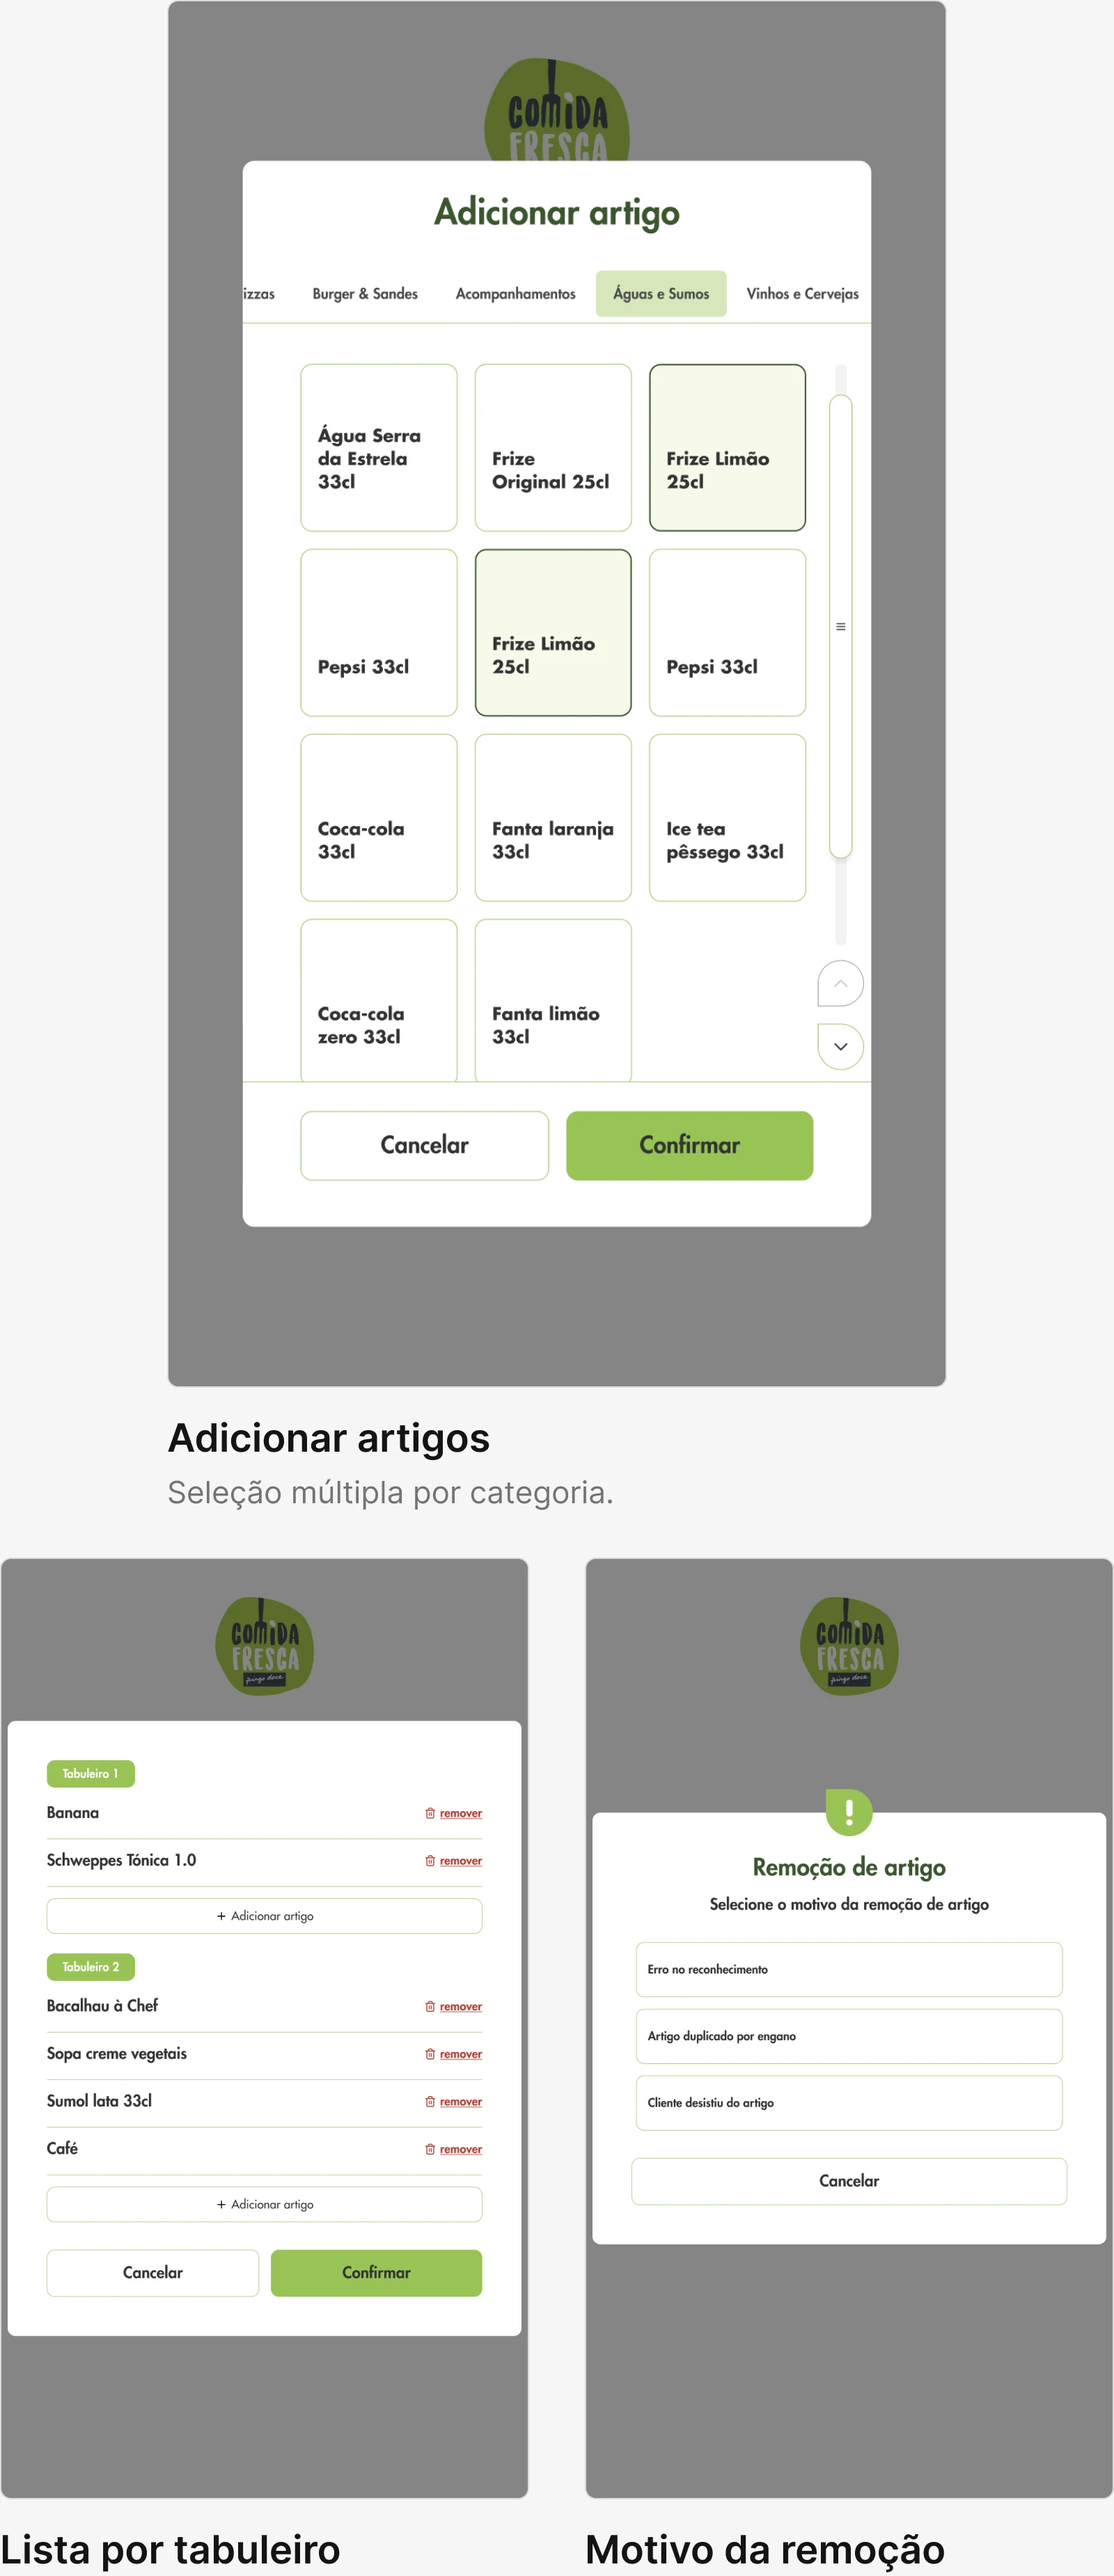
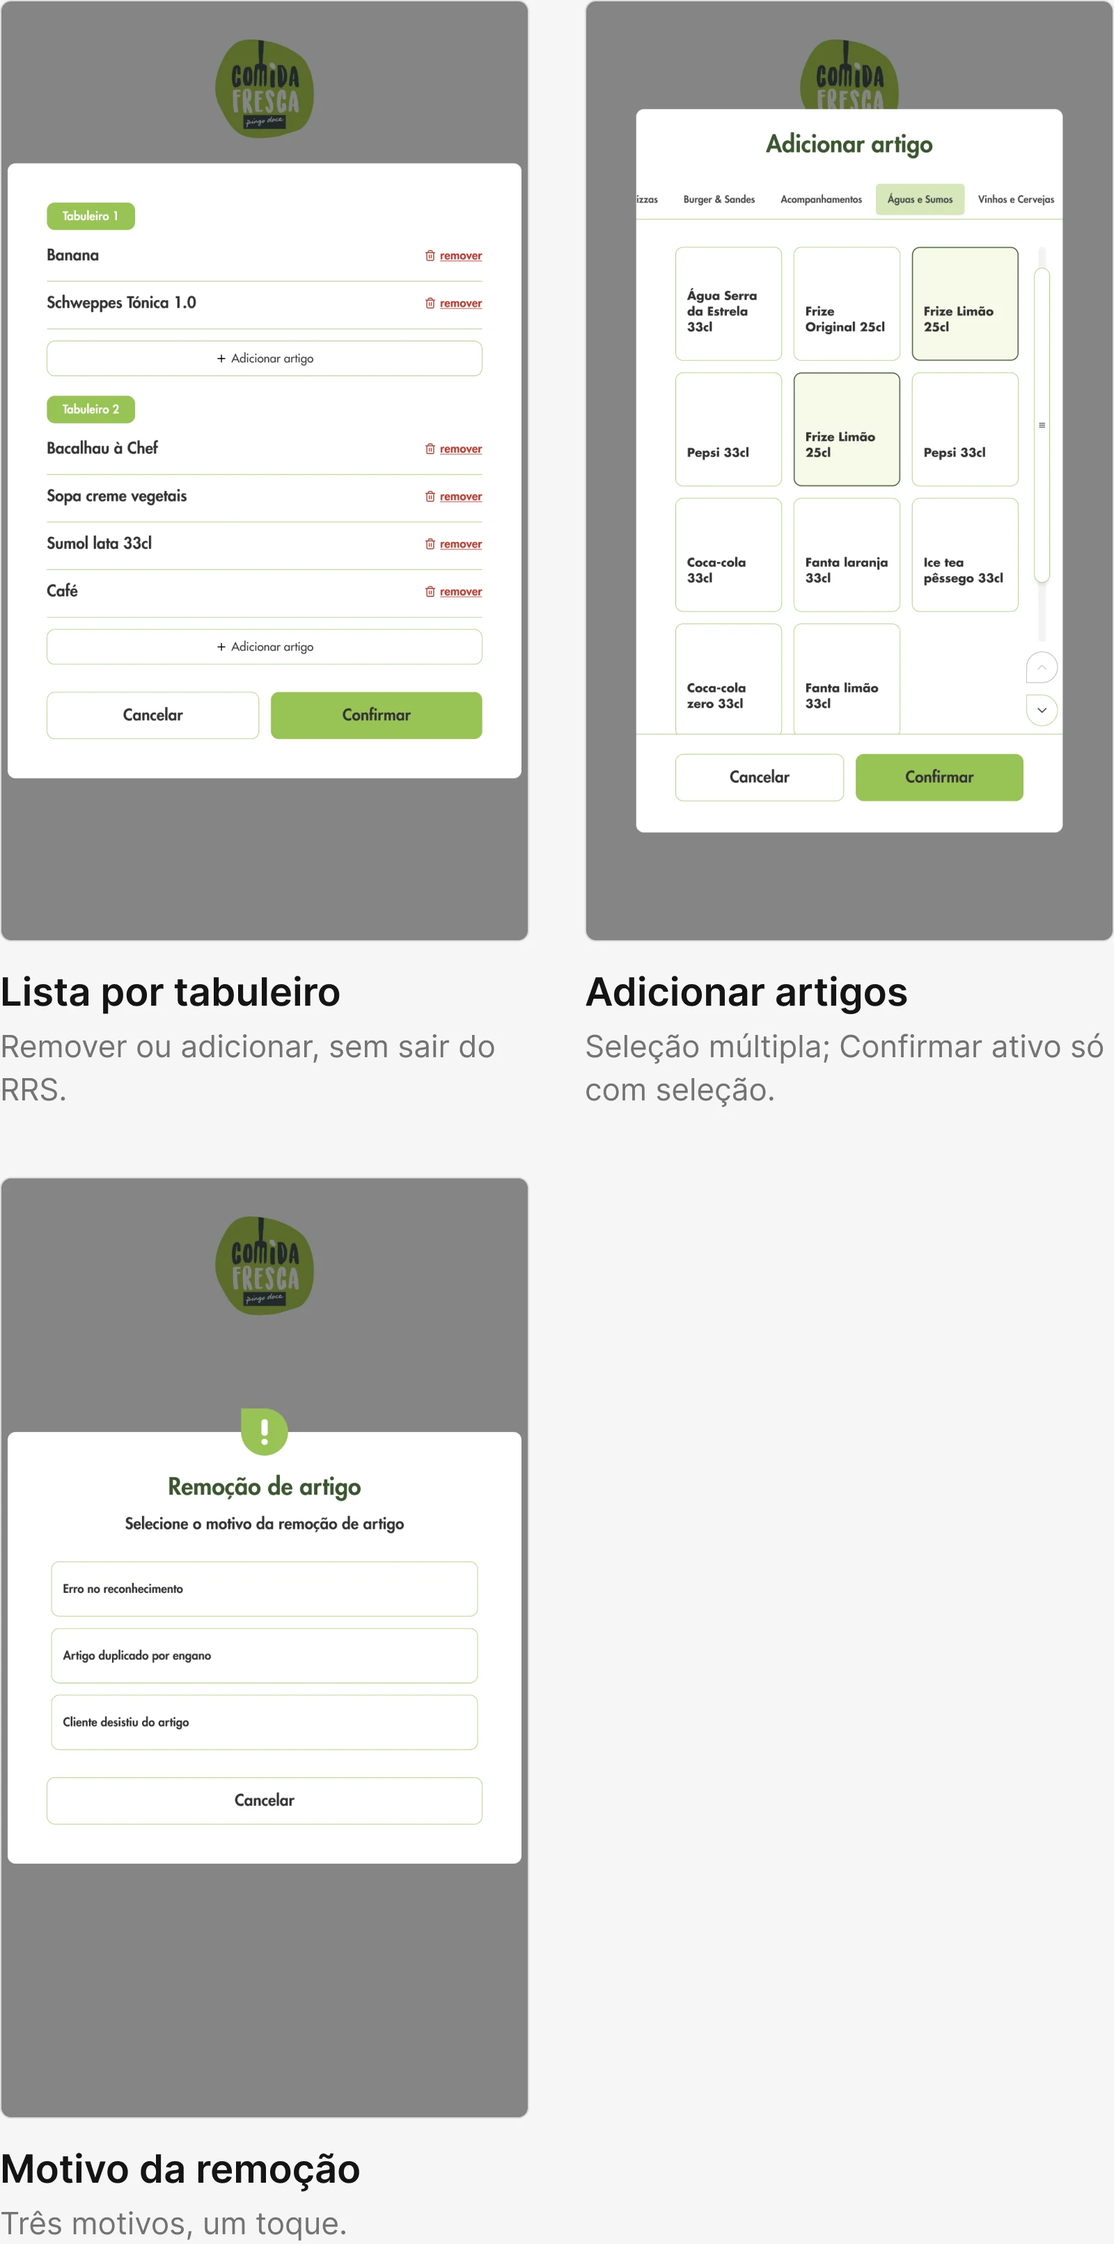
Case study RRS: Visual 05 com os três ecrãs finais à mesma dimensão
Claude-Session: https://claude.ai/code/session_0125m1rgJTbdLsewWJQmBY2s

diff --git a/content/02-rrs-pingo-doce.md b/content/02-rrs-pingo-doce.md
@@ -60,7 +60,7 @@ Ao longo das duas semanas, discuti as decisões de interface diretamente com os 
 
 A proposta final foi apresentada e aprovada pela Fujitsu e pelo Pingo Doce, e chegou depois a produção.
 
-![Ecrãs da proposta final aprovada, em Figma: lista por tabuleiro, seleção de artigos e motivo da remoção.](images/rrs/05-interface.webp?v=1)
+![Ecrãs da proposta final aprovada, em Figma: lista por tabuleiro, seleção de artigos e motivo da remoção.](images/rrs/05-interface.webp?v=2)
 
 ## Resultados e aprendizagens
 
